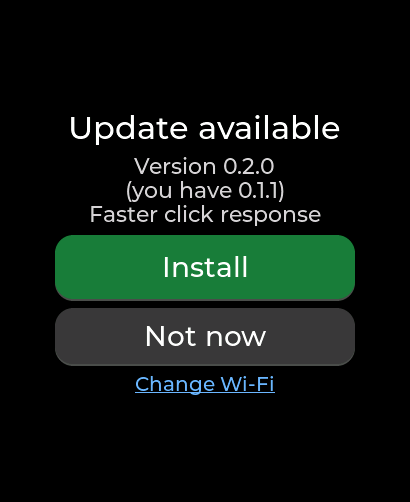
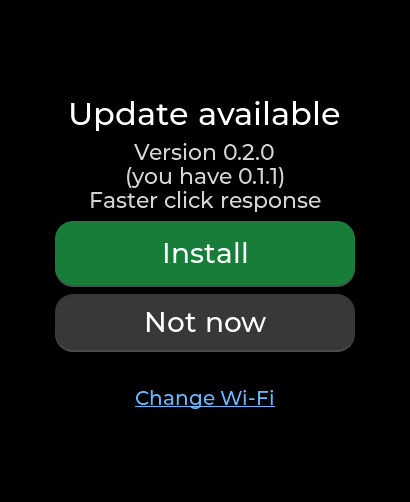
Update fit and finish tweaks.

Changed region(s): [[0.1171, 0.2092, 0.878, 0.8367]]

diff --git a/docs/guide/updating.html b/docs/guide/updating.html
@@ -44,8 +44,10 @@
   <p>The watch has two buttons on its side. The <kbd>upper button</kbd> (nearer the top of the screen) puts the watch to sleep; the <kbd>lower button</kbd> (nearer the bottom of the screen) wakes it up.</p>
   <p>To begin, tap <span class="btn grey">Stop</span> at the top right of the main screen, or press the <kbd>upper button</kbd>. (The first screen, &ldquo;Tap when in putting position&rdquo;, has no Stop button &mdash; use the <kbd>upper button</kbd> there.)</p>
   <p>The watch says <strong>Bye</strong>. For about <strong>three seconds</strong> an <span class="btn grey">Update</span> button appears below it &mdash; tap it.</p>
-  <div class="shots one">
+  <p>When you tap it, the button turns green and says <strong>Starting&hellip;</strong>. The watch then restarts into update mode, which takes a few seconds.</p>
+  <div class="shots">
     <figure><img class="screen" src="../screens/app-5-bye.png" width="410" height="502" alt="The Bye screen: the word Bye with an Update button below it" loading="lazy"><figcaption>The Bye screen</figcaption></figure>
+    <figure><img class="screen" src="../screens/app-7-bye-update-starting.png" width="410" height="502" alt="The same screen after tapping: the button is green and reads Starting" loading="lazy"><figcaption>After you tap Update</figcaption></figure>
   </div>
   <div class="box note">
     <p><strong>Missed it?</strong> Nothing is wrong &mdash; the watch simply goes to sleep. Press the <kbd>lower button</kbd> to wake it and try once more.</p>

diff --git a/src/ui.cpp b/src/ui.cpp
@@ -64,6 +64,14 @@ void plusClicked(lv_event_t*) {
     if (onAdjustClickThreshold) onAdjustClickThreshold(+1);
 }
 void updateClicked(lv_event_t*) {
+    // Restarting into update mode takes a moment, long enough that the user
+    // can't tell whether the touch registered. Say so, on screen, first: turn
+    // the button green (it already is while held - see init()), relabel it,
+    // and force that frame out NOW, because the restart below starts before
+    // the normal ~20 Hz render would draw it.
+    lv_obj_set_style_bg_color(updateBtn, lv_color_hex(0x1B7F3B), 0);
+    lv_label_set_text(lv_obj_get_child(updateBtn, 0), "Starting...");
+    lv_refr_now(nullptr);
     if (onUpdate) onUpdate();
 }
 
@@ -162,6 +170,9 @@ void init(const char* firmwareVersion) {
     updateBtn = makeButton("Update", updateClicked, LV_ALIGN_CENTER, 0, 110, 240, 76,
                            &lv_font_montserrat_32);
     lv_obj_set_style_bg_color(updateBtn, lv_color_hex(0x3A3A3A), 0);
+    // Green while touched - the same colour as the other "go" buttons. The
+    // default theme's pressed shade of dark grey is too faint to see.
+    lv_obj_set_style_bg_color(updateBtn, lv_color_hex(0x1B7F3B), LV_STATE_PRESSED);
     lv_obj_add_flag(updateBtn, LV_OBJ_FLAG_HIDDEN);
 
     // Firmware version along the bottom of the waiting screen, over the empty

diff --git a/src/update_ui.cpp b/src/update_ui.cpp
@@ -152,9 +152,17 @@ void buildScreen() {
     primaryBtn = makeButton(col, kBtnGreen, 64, onPrimary, &primaryLbl);
     secondaryBtn = makeButton(col, kBtnGrey, 56, onSecondary, &secondaryLbl);
 
+    // "Change Wi-Fi" sits directly under the main buttons, so it is easy to hit
+    // by accident. Three things keep it out of the way: it is only as wide as
+    // its words (a label defaults to the full row, which made the whole strip
+    // under a button tappable), its invisible touch margin is small, and it has
+    // a real gap above it - more than the buttons' and the link's touch margins
+    // added together (8 + 6), so their touch areas can never overlap.
     linkLbl = makeLabel(col, &lv_font_montserrat_20, kLink, kContentW);
+    lv_obj_set_width(linkLbl, LV_SIZE_CONTENT);
+    lv_obj_set_style_margin_top(linkLbl, 28, 0);
     lv_obj_add_flag(linkLbl, LV_OBJ_FLAG_CLICKABLE);
-    lv_obj_set_ext_click_area(linkLbl, 12);
+    lv_obj_set_ext_click_area(linkLbl, 6);
     lv_obj_add_event_cb(linkLbl, onLink, LV_EVENT_CLICKED, nullptr);
     lv_obj_set_style_text_decor(linkLbl, LV_TEXT_DECOR_UNDERLINE, 0);
 }

diff --git a/tools/screenshots/screens.cpp b/tools/screenshots/screens.cpp
@@ -136,6 +136,23 @@ static void putingAppScreens() {
     // trip to power-off), so nothing can be captured after it.
     ui::showByeScreen();
     capture("app-5-bye");
+
+    // The Update button's two feedback states: held down, then clicked (which
+    // relabels it just before the restart). The Bye screen is a one-way trip,
+    // so these come last. Its only visible button is Update.
+    lv_obj_t* active = lv_screen_active();
+    lv_obj_t* update = nullptr;
+    for (uint32_t i = 0; i < lv_obj_get_child_count(active); i++) {
+        lv_obj_t* c = lv_obj_get_child(active, i);
+        if (lv_obj_check_type(c, &lv_button_class) && !lv_obj_has_flag(c, LV_OBJ_FLAG_HIDDEN)) update = c;
+    }
+    if (update) {
+        lv_obj_add_state(update, LV_STATE_PRESSED);
+        capture("app-6-bye-update-touched");
+        lv_obj_remove_state(update, LV_STATE_PRESSED);
+        lv_obj_send_event(update, LV_EVENT_CLICKED, nullptr);  // ui::onUpdate is unset here: no restart
+        capture("app-7-bye-update-starting");
+    }
 }
 
 // ---- update mode's screens ---------------------------------------------------
